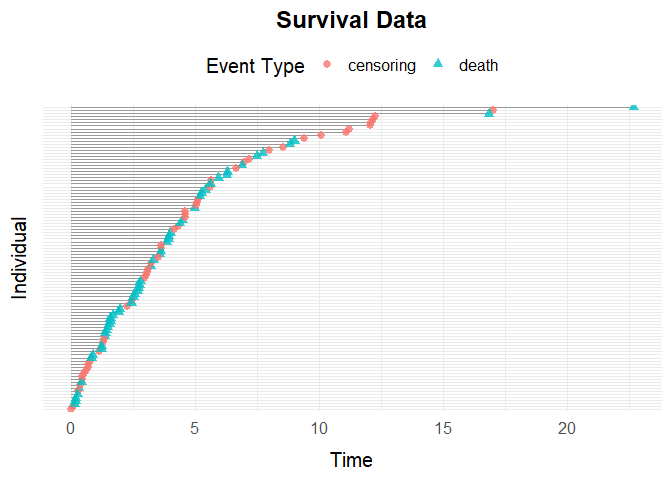
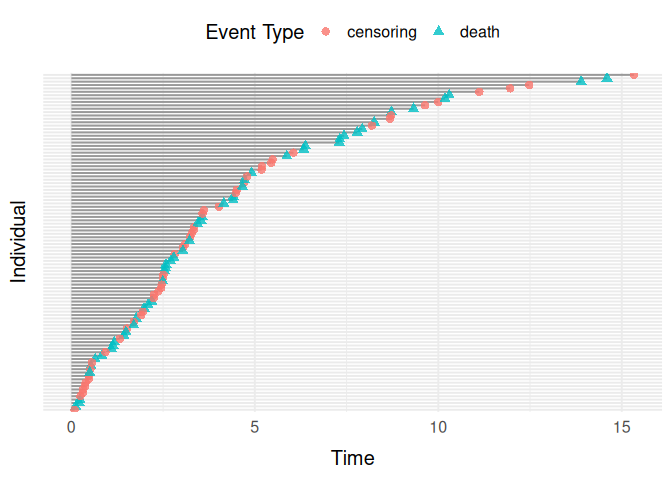
Update API

diff --git a/README.md b/README.md
@@ -39,8 +39,8 @@ library(simevent)
 The package builds event history data from a *model*: baseline
 covariates, event processes (censoring, terminal, or transient, with
 Weibull or user-given intensities), and the Cox-type effects between
-them. `sim_model()` defines the model and `simulate_events()` simulates from
-it. On top of this, the package provides:
+them. `sim_model()` defines the model and `simulate_events()` simulates
+from it. On top of this, the package provides:
 
 - `sim_model_from_fits()` for building a model from `coxph()` fits to
   observed data, to simulate new data resembling it.
@@ -59,7 +59,7 @@ model <- sim_model(
   death = sim_process("terminal", eta = 0.1, nu = 1.1)
 )
 data <- simulate_events(model, n = 100)
-plot_event_data(data, title = "Survival Data")
+plot_event_data(data)
 ```
 
 <img src="man/figures/README-quick-example-1.png" alt="" width="100%" />
